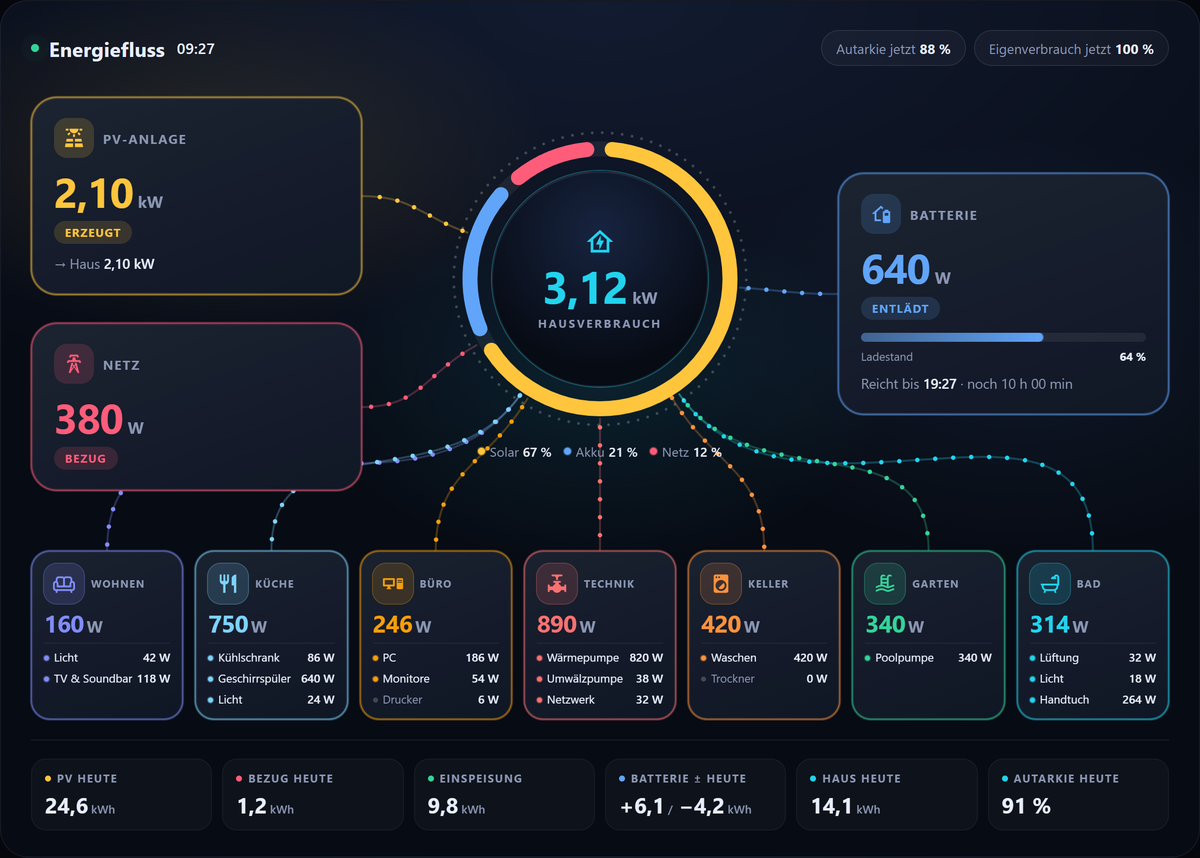
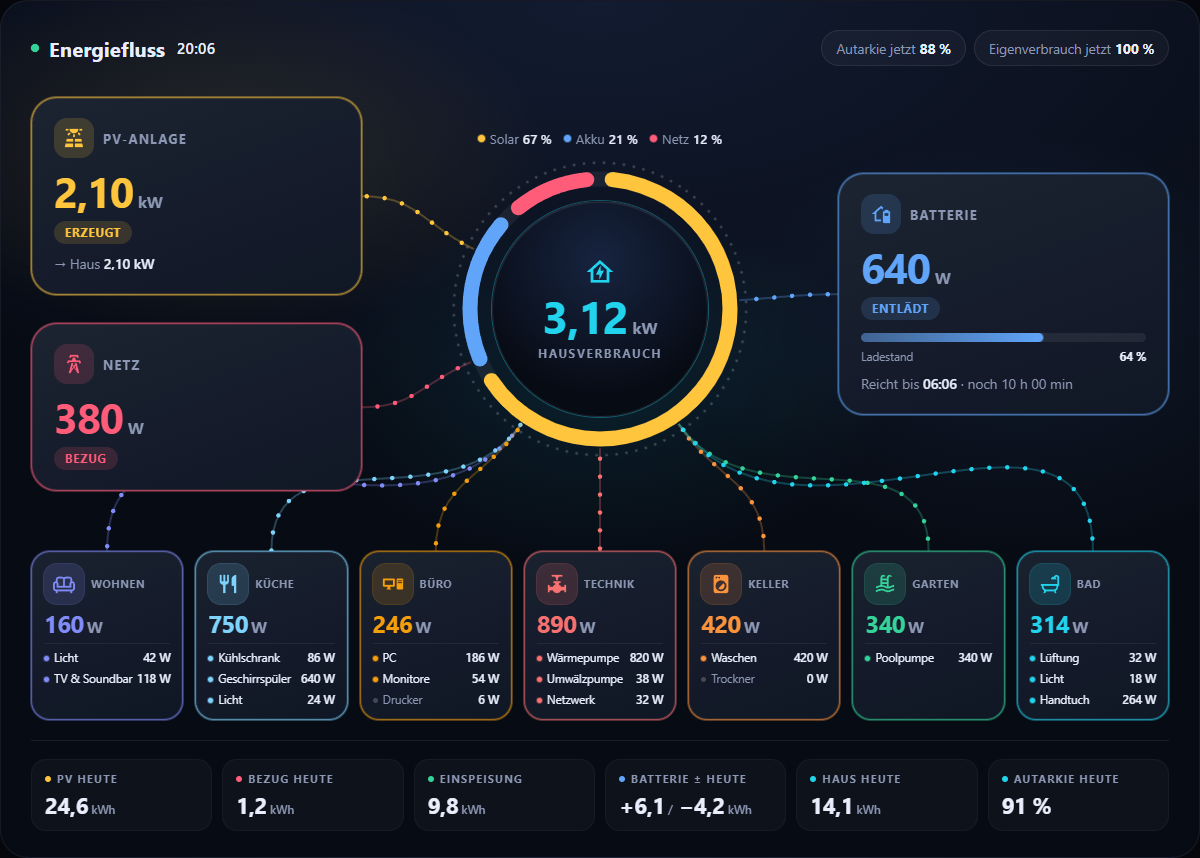
0.19.5: Hinweis statt 0 EUR bei falschem Sensor, Legende ueber dem Ring
- stats: Kosten je Verbraucher nennen Leistungssensor, fehlende Statistik oder fehlenden Sensor (#21)
- flow: Legende in der klassischen Ansicht ueber dem Ring, keine Linie laeuft mehr hindurch
- Doku: KONFIGURATION, CHANGELOG, Bild flow-haus

diff --git a/dist/energy-cockpit.js b/dist/energy-cockpit.js
@@ -1,4 +1,4 @@
-/*! energy-cockpit v0.19.4 - MIT License */
+/*! energy-cockpit v0.19.5 - MIT License */
 /* ---- common.js ---- */
 /* Gemeinsame Helfer für alle energy-cockpit-Karten. Wird im Bundle als globales Objekt WD bereitgestellt. */
 const WD = (() => {
@@ -1098,6 +1098,8 @@ footer{display:grid;grid-template-columns:repeat(auto-fit,minmax(118px,1fr));gri
 .wide .stat span{font-size:calc(.7rem*var(--ts,1))}
 /* groups_lines: sammel: eine Linie zum ganzen Verbraucherbereich */
 .sam-on .mix{order:-1;margin:0 0 12px}
+/* Klassische Ansicht: Legende über dem Ring, dort kommt keine Linie an (unten laufen die Linien zu den Verbrauchern, auf dem Handy zu Solar, Netz und Akku) */
+.wrap:not(.s3d) .mix{order:-1;margin:0 0 12px}
 .sambox{position:relative;z-index:1;margin-top:46px;padding:30px 12px 12px;border:1px solid var(--stroke);border-radius:26px;background:rgba(var(--ov),.018)}
 .wrap .sambox .consumers,.wrap .sambox .groups{margin-top:0}
 .wrap .sambox .consumers+.groups{margin-top:12px}
@@ -4163,7 +4165,7 @@ WD.addStrings({
   'st.full': '× voll', 'st.note': 'Netzstrom {p} ct/kWh · Einspeisung {f} ct/kWh · reine Energiekosten ohne Grundgebühr · Amortisation mit heutigen Preisen geschätzt',
   'st.noprice': 'Preise (grid_price, feed_in) konfigurieren, um Kosten und Ersparnis zu sehen', 'st.nodata': 'noch keine Daten', 'st.vsprev': 'ggü. Vorjahr',
   'st.import': 'Bezug', 'st.export': 'Einspeisung',
-  'st.week': 'Woche', 'st.cc.title': 'Kosten je Verbraucher', 'st.cc.meas': 'gemessen', 'st.cc.est': 'nach Haus-Mix', 'st.cc.cost': 'Netzkosten', 'st.cc.saved': 'gespart', 'st.cc.nohist': 'Nur für das aktuelle Jahr verfügbar', 'st.cc.grid': 'Netz', 'st.cc.bat': 'Akku', 'st.cc.pv': 'PV', 'st.cc.upto': 'bis {x} {cur}/h',
+  'st.week': 'Woche', 'st.cc.title': 'Kosten je Verbraucher', 'st.cc.meas': 'gemessen', 'st.cc.est': 'nach Haus-Mix', 'st.cc.cost': 'Netzkosten', 'st.cc.saved': 'gespart', 'st.cc.nohist': 'Nur für das aktuelle Jahr verfügbar', 'st.cc.grid': 'Netz', 'st.cc.bat': 'Akku', 'st.cc.pv': 'PV', 'st.cc.upto': 'bis {x} {cur}/h', 'st.cc.unitW': '{id} misst Leistung ({u}). Nötig ist ein Zähler in kWh.', 'st.cc.nostat': 'Keine kWh-Statistik für {id}. Nötig ist ein Zähler mit state_class total_increasing.', 'st.cc.missing': '{id} gibt es nicht.',
   'st.all': 'Gesamt', 'st.hist': 'Historie', 'st.nodata2': 'keine Daten',
   'st.lt.from': 'Daten ab {d}', 'st.lt.gaps': 'Keine Daten für: {m}', 'st.lt.skip': 'In den Summen fehlen {n} Monat(e) ohne vollständige Daten',
   'st.lt.hist': 'Historie: nur PV-Ertrag, ohne Netz- und Speicherwerte', 'st.lt.price': 'Geldwerte mit den heutigen Preisen gerechnet',
@@ -4307,6 +4309,9 @@ footer{display:grid;grid-template-columns:repeat(auto-fit,minmax(130px,1fr));gri
 .cc-leg span{display:flex;align-items:center;margin-right:11px}
 .cc-leg i{width:6px;height:6px;border-radius:50%;background:rgb(var(--s));margin-right:5px}
 .cc-leg b{color:var(--txt);font-weight:600;margin-left:3px}
+.ccard.bad{border-color:rgba(251,191,36,.45)}
+.cc-leg .cc-warn{display:block;margin:0;color:#fbbf24;font-weight:600;line-height:1.35;overflow-wrap:anywhere}
+.cc-warn ha-icon{--mdc-icon-size:14px;width:14px;height:14px;vertical-align:-2px;margin-right:5px}
 .wide{padding:24px 30px}
 .wide .title{font-size:1.25rem}
 .wide .m .num{font-size:2.4rem}
@@ -4529,8 +4534,10 @@ footer{display:grid;grid-template-columns:repeat(auto-fit,minmax(130px,1fr));gri
         const day = ymd(t), hit = c._ph.find((x) => day.slice(0, x.until.length) <= x.until);
         return hit ? hit.eur : nowEur;
       };
+      const seen = new Set();
       const add = (rows, means, slots, onHour) => {
         const at = {};
+        ids.forEach((id) => { if ((rows[id] || []).length) seen.add(id); });
         ids.forEach((id) => (rows[id] || []).forEach((r) => { if (r.change === null || r.change === undefined) return; const t = stamp(r); (at[t] = at[t] || {})[id] = Math.max(0, r.change); }));
         Object.keys(at).forEach((k) => {
           const t = +k, v = at[k], sum = (l) => l.reduce((a, id) => a + (v[id] || 0), 0), pv = v[c.pv_total] || 0, imp = v[c.grid_import_total] || 0, exp = v[c.grid_export_total] || 0, chg = sum(c._chg), dis = sum(c._dis);
@@ -4563,6 +4570,19 @@ footer{display:grid;grid-template-columns:repeat(auto-fit,minmax(130px,1fr));gri
         const m = await means(first);
         add(await stat('hour', ['change'], ids, first), m, (t) => [t >= m0 && month, t >= w0 && week, t >= d0 && day].filter(Boolean), (t, x) => { if (t >= w0) Object.keys(wk).forEach((n) => { wk[n] += x[n]; }); });
         this._ccW = wk;
+        // Typische Einrichtungsfehler sichtbar machen, statt still 0 € zu zeigen: Leistungssensor statt Zähler, Sensor ohne Statistik
+        // "Keine Statistik" nur melden, wenn die Zähler des Hauses Werte haben. Kurz nach Monats- oder Wochenbeginn gibt es sonst noch gar keine Stunde
+        const anyHouse = house.some((id) => seen.has(id));
+        this._ccBad = c._cc.map((x) => {
+          for (const id of mine(x)) {
+            const st = h.states && h.states[id], u = st && st.attributes ? String(st.attributes.unit_of_measurement || '') : '';
+            if (/^[kMG]?W$/.test(u)) return { k: 'st.cc.unitW', id, u };
+            if (seen.has(id)) continue;
+            if (!st && h.states) return { k: 'st.cc.missing', id, u };
+            if (anyHouse) return { k: 'st.cc.nostat', id, u };
+          }
+          return null;
+        });
         this._ccPriced = nowEur > 0 || c._ph.length > 0 || this._ccY.hasStat || Object.keys(m).length > 0;
         this._ccV = { day, week, month, year: month.map((x, i) => x.map((v, n) => v + this._ccY.past[i][n])) };
       } catch (e) {
@@ -4583,10 +4603,18 @@ footer{display:grid;grid-template-columns:repeat(auto-fit,minmax(130px,1fr));gri
       let cost = 0, sav = 0;
       c._cc.forEach((x, i) => {
         const [g, b, p, cost1, sav1] = set ? set[i] : [0, 0, 0, 0, 0], tot = g + b + p, card = this._$(`.ccard[data-c="${i}"]`);
-        cost += cost1; sav += sav1;
-        this._count(`ccC${i}`, priced ? cost1 : null, dec(cost1));
-        this._f(`ccS${i}`, priced ? `${nf(sav1, dec(sav1))} ${CUR}` : '—');
-        card.classList.toggle('idle', tot < 0.05);
+        const bad = this._ccBad && this._ccBad[i];
+        if (!bad) { cost += cost1; sav += sav1; }
+        this._count(`ccC${i}`, priced && !bad ? cost1 : null, dec(cost1));
+        this._f(`ccS${i}`, priced && !bad ? `${nf(sav1, dec(sav1))} ${CUR}` : '—');
+        card.classList.toggle('idle', tot < 0.05 && !bad);
+        card.classList.toggle('bad', !!bad);
+        if (bad) {
+          card.querySelectorAll('.cc-bar i').forEach((s) => { s.style.width = '0'; });
+          this._f(`ccK${i}`, `<span class="cc-warn" title="${esc(bad.id)}"><ha-icon icon="mdi:alert-outline"></ha-icon>${T(bad.k, { id: esc(bad.id), u: esc(bad.u) })}</span>`);
+          this._$(`[data-f="ccL${i}"]`).classList.remove('on');
+          return;
+        }
         card.querySelectorAll('.cc-bar i').forEach((s, n) => { s.style.width = tot > 0 ? [g, b, p][n] / tot * 100 + '%' : '0'; });
         this._f(`ccK${i}`, [['--imp', 'st.cc.grid', g], ['--bat', 'st.cc.bat', b], ['--pv', 'st.cc.pv', p]].map(([s, l, v]) => `<span style="--s:var(${s})"><i></i>${T(l)}<b>${fk(v)}</b></span>`).join('') + '<span>kWh</span>');
         const w = live(this._hass, x.power), on = w !== null && w > (x.on_w === undefined ? 10 : x.on_w), lv = this._$(`[data-f="ccL${i}"]`);

diff --git a/test/stats-costs.html b/test/stats-costs.html
@@ -77,6 +77,16 @@ async function run(){
   const form=WD.statsForm();
   ok('Alle Felder kennt Verbraucher und Preisverlauf',form.schema.some(f=>f.name==='cost_consumers')&&form.schema.some(f=>f.name==='grid_price_history'));
   ed.remove();
+  // Typische Einrichtungsfehler: Hinweis statt still 0 € (#21)
+  e=mount({...base,pv_ac:true,cost_consumers:[base.cost_consumers[0],{name:'WP Watt',energy:'sensor.wpw'},{name:'Ohne Statistik',energy:'sensor.ns'},{name:'Tippfehler',energy:'sensor.gibtsnicht'}]},hassFor({'sensor.wpw':S(1200),'sensor.ns':S(12.5,'kWh')}));await wait(600);await tab(e,'day');
+  ok('Hinweis: Leistungssensor statt Zähler',q(e,'.ccard[data-c="1"]').classList.contains('bad')&&/misst Leistung \(W\)/.test(t(e,'[data-f="ccK1"]'))&&t(e,'[data-t="ccC1"]')==='—',t(e,'[data-f="ccK1"]')+' / '+t(e,'[data-t="ccC1"]'));
+  ok('Hinweis: Sensor ohne Statistik',/Keine kWh-Statistik für sensor\.ns/.test(t(e,'[data-f="ccK2"]'))&&t(e,'[data-f="ccS2"]')==='—',t(e,'[data-f="ccK2"]'));
+  ok('Hinweis: Sensor gibt es nicht',/sensor\.gibtsnicht gibt es nicht/.test(t(e,'[data-f="ccK3"]')),t(e,'[data-f="ccK3"]'));
+  ok('richtiger Sensor: kein Hinweis, Werte wie bisher',!q(e,'.ccard[data-c="0"]').classList.contains('bad')&&t(e,'[data-t="ccC0"]')==='0,50',t(e,'[data-t="ccC0"]'));
+  ok('Summe im Kopf nur aus richtigen Sensoren',/0,50 €/.test(t(e,'[data-f="ccSum"]')),t(e,'[data-f="ccSum"]'));
+  const h3=hassFor({'sensor.ns':S(1,'kWh')});h3.callWS=async()=>({});
+  e=mount({...base,pv_ac:true,cost_consumers:[{name:'Neu',energy:'sensor.ns'}]},h3);await wait(600);await tab(e,'day');
+  ok('Monatsbeginn ohne jede Stunde: kein falscher Hinweis',!q(e,'.ccard[data-c="0"]').classList.contains('bad'));
   const {cost_consumers,...off}=base;calls=[];
   e=mount(off,hassFor());await wait(600);
   ok('ohne Eintrag: kein Bereich und keine Abfrage',!q(e,'.cc')&&calls.length===0);

diff --git a/src/stats-i18n.js b/src/stats-i18n.js
@@ -11,7 +11,7 @@ WD.addStrings({
   'st.full': '× voll', 'st.note': 'Netzstrom {p} ct/kWh · Einspeisung {f} ct/kWh · reine Energiekosten ohne Grundgebühr · Amortisation mit heutigen Preisen geschätzt',
   'st.noprice': 'Preise (grid_price, feed_in) konfigurieren, um Kosten und Ersparnis zu sehen', 'st.nodata': 'noch keine Daten', 'st.vsprev': 'ggü. Vorjahr',
   'st.import': 'Bezug', 'st.export': 'Einspeisung',
-  'st.week': 'Woche', 'st.cc.title': 'Kosten je Verbraucher', 'st.cc.meas': 'gemessen', 'st.cc.est': 'nach Haus-Mix', 'st.cc.cost': 'Netzkosten', 'st.cc.saved': 'gespart', 'st.cc.nohist': 'Nur für das aktuelle Jahr verfügbar', 'st.cc.grid': 'Netz', 'st.cc.bat': 'Akku', 'st.cc.pv': 'PV', 'st.cc.upto': 'bis {x} {cur}/h',
+  'st.week': 'Woche', 'st.cc.title': 'Kosten je Verbraucher', 'st.cc.meas': 'gemessen', 'st.cc.est': 'nach Haus-Mix', 'st.cc.cost': 'Netzkosten', 'st.cc.saved': 'gespart', 'st.cc.nohist': 'Nur für das aktuelle Jahr verfügbar', 'st.cc.grid': 'Netz', 'st.cc.bat': 'Akku', 'st.cc.pv': 'PV', 'st.cc.upto': 'bis {x} {cur}/h', 'st.cc.unitW': '{id} misst Leistung ({u}). Nötig ist ein Zähler in kWh.', 'st.cc.nostat': 'Keine kWh-Statistik für {id}. Nötig ist ein Zähler mit state_class total_increasing.', 'st.cc.missing': '{id} gibt es nicht.',
   'st.all': 'Gesamt', 'st.hist': 'Historie', 'st.nodata2': 'keine Daten',
   'st.lt.from': 'Daten ab {d}', 'st.lt.gaps': 'Keine Daten für: {m}', 'st.lt.skip': 'In den Summen fehlen {n} Monat(e) ohne vollständige Daten',
   'st.lt.hist': 'Historie: nur PV-Ertrag, ohne Netz- und Speicherwerte', 'st.lt.price': 'Geldwerte mit den heutigen Preisen gerechnet',

diff --git a/test/flow-ring.html b/test/flow-ring.html
@@ -30,6 +30,9 @@ async function run(){
   e=mount(hassFor(300,700,0));await wait(300);
   const t=segs(e);
   ok('große Anteile: Abstand bleibt wie bisher',Math.abs(t[0].len-27)<0.01&&Math.abs(t[2].len-67)<0.01,t[0].len.toFixed(2)+' / '+t[2].len.toFixed(2));
+  // Legende über dem Ring: unten und seitlich kommen die Linien an (0.19.5)
+  const mx=e.shadowRoot.querySelector('.mix').getBoundingClientRect(),rg=e.shadowRoot.querySelector('.ring-bg').closest('svg').getBoundingClientRect();
+  ok('Legende steht über dem Ring',mx.height>0&&mx.bottom<=rg.top+1,Math.round(mx.bottom)+' / '+Math.round(rg.top));
   document.getElementById('res').textContent=`${fail?'FEHLER '+fail:'ALLE OK'}\n`+lines.join('\n');
 }
 if(new URLSearchParams(location.search).get('test')){document.getElementById('host').style.height='0';run();}else mount(hassFor(11,345,0));

diff --git a/src/flow-card.js b/src/flow-card.js
@@ -194,6 +194,8 @@ footer{display:grid;grid-template-columns:repeat(auto-fit,minmax(118px,1fr));gri
 .wide .stat span{font-size:calc(.7rem*var(--ts,1))}
 /* groups_lines: sammel: eine Linie zum ganzen Verbraucherbereich */
 .sam-on .mix{order:-1;margin:0 0 12px}
+/* Klassische Ansicht: Legende über dem Ring, dort kommt keine Linie an (unten laufen die Linien zu den Verbrauchern, auf dem Handy zu Solar, Netz und Akku) */
+.wrap:not(.s3d) .mix{order:-1;margin:0 0 12px}
 .sambox{position:relative;z-index:1;margin-top:46px;padding:30px 12px 12px;border:1px solid var(--stroke);border-radius:26px;background:rgba(var(--ov),.018)}
 .wrap .sambox .consumers,.wrap .sambox .groups{margin-top:0}
 .wrap .sambox .consumers+.groups{margin-top:12px}

diff --git a/docs/KONFIGURATION.md b/docs/KONFIGURATION.md
@@ -375,6 +375,7 @@ cost_consumers:
   ```
 
   Das gilt nur für die Kosten je Verbraucher. Die Geldwerte oben und die Amortisation rechnen weiter mit dem heutigen Preis.
+- **Hinweis bei falschem Sensor:** Statt still 0 € zu zeigen, nennt das Kärtchen in Gelb den Grund: wenn ein Sensor Leistung misst (W statt kWh), wenn es zu ihm keine kWh-Statistik gibt oder wenn es ihn nicht gibt. Gebraucht wird ein Zähler in kWh mit `state_class: total_increasing`. Gibt es nur einen Leistungssensor, macht der Helfer **Integral** (Riemann-Summenintegral) daraus einen kWh-Zähler. Er zählt ab dem Einrichten, frühere Tage fehlen dann.
 - Grundlage sind die Stundenwerte der Statistik: "Heute" hinkt deshalb bis zu einer Stunde hinterher. Für "Gesamt" und frühere Jahre bleibt der Bereich stehen, zeigt aber keine Werte.
 
 **`pv_ac`:** Manche Hybrid-Wechselrichter zählen im Gesamtertrag nur ihre Abgabe: ohne die Ladung des Akkus aus den Modulen, dafür mit seiner Entladung. Mit `pv_ac: true` rechnet die Karte den Hausverbrauch als PV + Bezug − Einspeisung. Das gilt für die Autarkie und für die Aufteilung nach Haus-Mix.
@@ -527,7 +528,7 @@ Was die Kurzansicht anders macht:
 
 - Solar, Netz und Batterie stehen neben dem Ring statt darunter. Die Karte ist etwa halb so hoch.
 - Gruppen zeigen nur Name und Summe. Ein **Tipp auf eine Gruppe** (Pfeil „›“) öffnet ein Fenster mit allen Geräten, ihren aktuellen Werten und der Summe. Die Werte laufen live mit, ein Tipp auf ein Gerät öffnet dessen Verlauf, „ד oder ein Tipp daneben schließt das Fenster.
-- Zusatztexte entfallen: Aufteilung des Solarstroms, Prognose, Akku-Prognose, Herkunft unter dem Ring.
+- Zusatztexte entfallen: Aufteilung des Solarstroms, Prognose, Akku-Prognose, Herkunft über dem Ring.
 - Zu den Verbrauchern führt die Sammel-Linie, sofern `groups_lines` nicht gesetzt ist. `groups_columns` gilt in der Kurzansicht nicht, die Gruppen verteilen sich selbst auf die Breite.
 
 Die Umschaltung richtet sich nach der Breite der Karte, nicht nach dem Gerätetyp. Sie gilt also auch für Android und für ein schmales Browserfenster.

diff --git a/CHANGELOG.md b/CHANGELOG.md
@@ -1,5 +1,10 @@
 # Änderungsprotokoll
 
+## 0.19.5
+- **Statistik, Kosten je Verbraucher: Hinweis statt 0 €:** Ist für einen Verbraucher ein Leistungssensor (W) eingetragen, gibt es zu seinem Zähler keine kWh-Statistik oder den Sensor gar nicht, zeigte das Kärtchen bisher ohne Erklärung 0 €. Jetzt steht dort in Gelb der Grund und welcher Sensor gemeint ist. Die Summe oben rechnet nur mit den richtigen Sensoren. Rückmeldung aus [#21](https://github.com/msucimaker3112/energy-cockpit/issues/21).
+- **Energiefluss, Legende am Ring:** In der klassischen Ansicht stand die Legende (Solar, Akku, Netz in Prozent) unter dem Ring, und die Linien zu den Verbrauchern, auf dem Handy auch zu Solar, Netz und Akku, liefen durch die Schrift. Sie steht jetzt über dem Ring, wie schon in der 3D-Ansicht.
+- **Doku:** Die Installation über die HACS-Suche steht jetzt auch in der Ansicht, die HACS zur Karte zeigt.
+
 ## 0.19.4
 - **Energiefluss, 3D-Ansicht:** Namen mit Anführungszeichen oder spitzen Klammern konnten die Zeichnung brechen, und Markup darin wurde als HTML gelesen. Sie werden jetzt geschützt ausgegeben.
 - **Statistik, Kachel "Einspeiseerlös" wählbar (optional, `feed_in_card`):** Für Anlagen ohne Vergütung zeigt `pv_self_consumption` stattdessen den PV-Eigenverbrauch mit Quote und selbst genutzten kWh, `hidden` blendet die Kachel aus. Ohne Eintrag ändert sich nichts. Wunsch aus [#14](https://github.com/msucimaker3112/energy-cockpit/issues/14).
